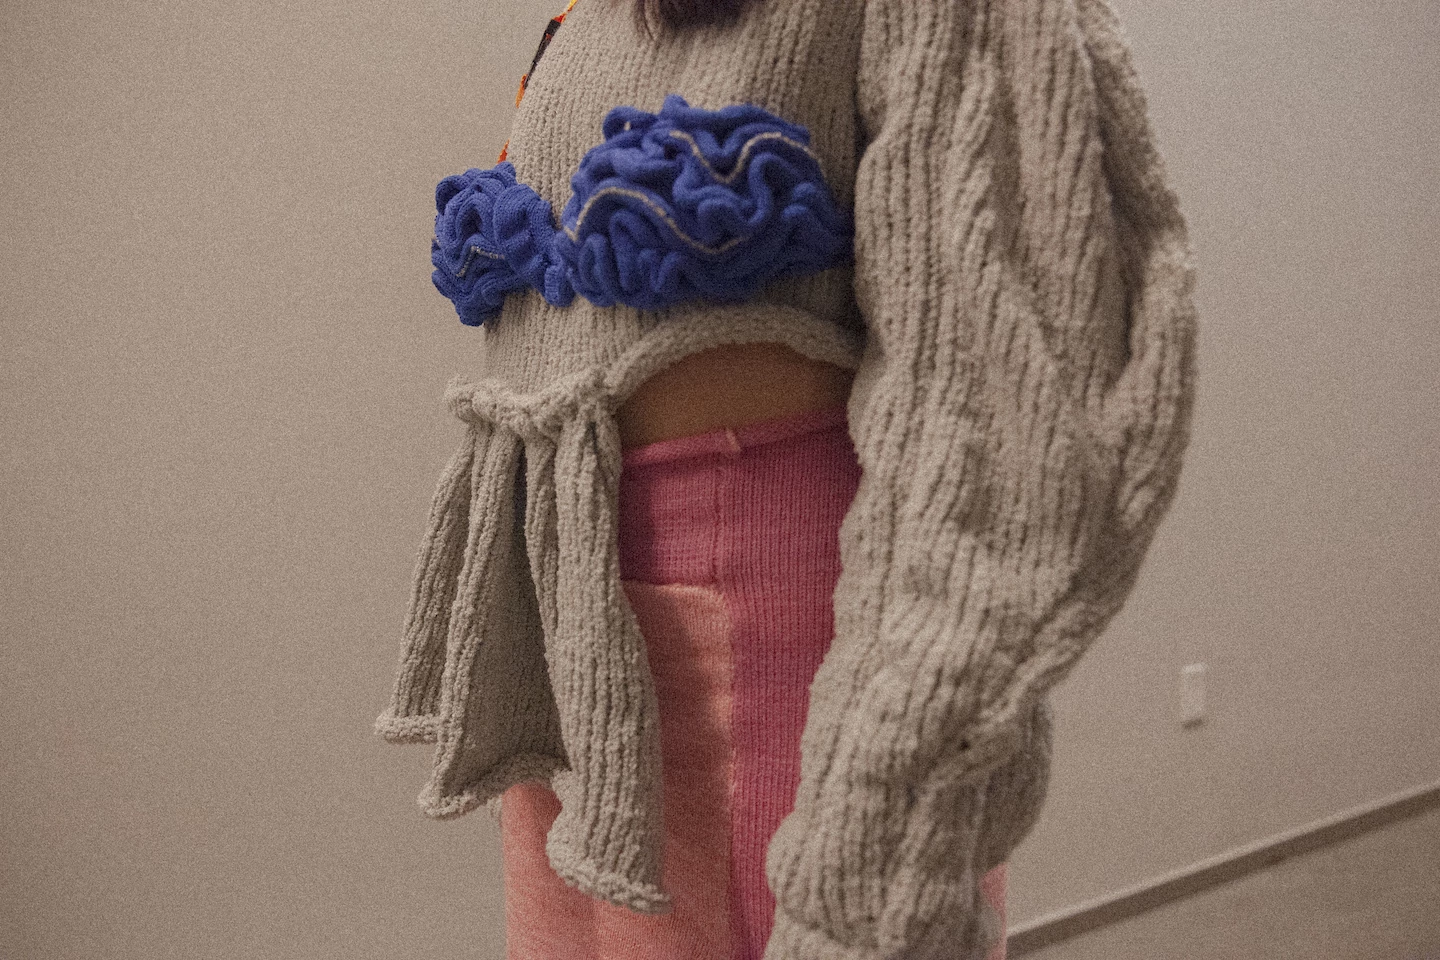
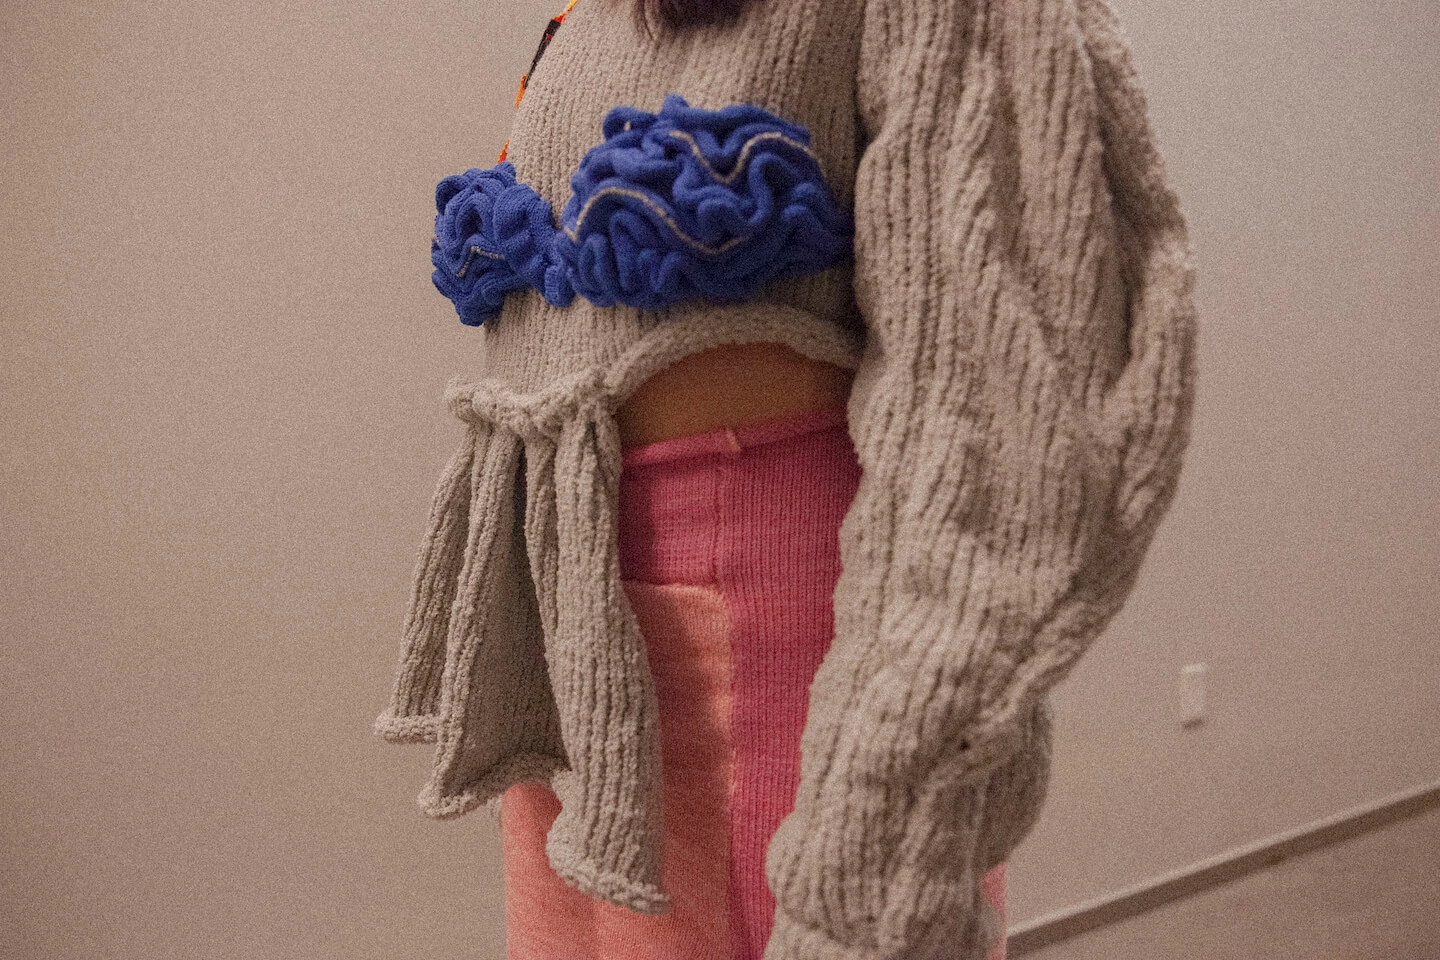
Optimize spaceVegan images

Changed region(s): [[0.4688, 0.5, 0.5625, 0.9375], [0.375, 0.9375, 0.4688, 1.0], [0.3438, 0.8438, 0.375, 0.875]]

diff --git a/src/pages/spaceVegan.js b/src/pages/spaceVegan.js
@@ -19,7 +19,7 @@ const SpaceVeganPage = props => {
             type="image/webp"
           />
           <img
-            src={`../../images/collections/spaceVegan/kbSpaceVegan1.png`}
+            src={`../../images/collections/spaceVegan/kbSpaceVegan1.jpg`}
             alt="Space vegan 1"
             className="one-sv abs w-auto"
           />
@@ -30,7 +30,7 @@ const SpaceVeganPage = props => {
             type="image/webp"
           />
           <img
-            src={`../../images/collections/spaceVegan/kbSpaceVegan2.png`}
+            src={`../../images/collections/spaceVegan/kbSpaceVegan2.jpg`}
             alt="Space vegan 2"
             className="two-sv abs"
           />
@@ -41,7 +41,7 @@ const SpaceVeganPage = props => {
             type="image/webp"
           />
           <img
-            src={`../../images/collections/spaceVegan/kbSpaceVegan3.png`}
+            src={`../../images/collections/spaceVegan/kbSpaceVegan3.jpg`}
             alt="Space vegan 3"
             className="three-sv abs w-auto"
           />
@@ -52,7 +52,7 @@ const SpaceVeganPage = props => {
             type="image/webp"
           />
           <img
-            src={`../../images/collections/spaceVegan/kbSpaceVegan4.png`}
+            src={`../../images/collections/spaceVegan/kbSpaceVegan4.jpg`}
             alt="Space vegan 4"
             className="four-sv abs"
           />
@@ -63,7 +63,7 @@ const SpaceVeganPage = props => {
             type="image/webp"
           />
           <img
-            src={`../../images/collections/spaceVegan/kbSpaceVegan5.png`}
+            src={`../../images/collections/spaceVegan/kbSpaceVegan5.jpg`}
             alt="Space vegan 5"
             className="five-sv abs w-auto"
           />
@@ -74,7 +74,7 @@ const SpaceVeganPage = props => {
             type="image/webp"
           />
           <img
-            src={`../../images/collections/spaceVegan/kbSpaceVegan6.png`}
+            src={`../../images/collections/spaceVegan/kbSpaceVegan6.jpg`}
             alt="Space vegan 6"
             className="six-sv abs w-auto"
           />
@@ -85,7 +85,7 @@ const SpaceVeganPage = props => {
             type="image/webp"
           />
           <img
-            src={`../../images/collections/spaceVegan/kbSpaceVegan7.png`}
+            src={`../../images/collections/spaceVegan/kbSpaceVegan7.jpg`}
             alt="Space vegan 7"
             className="seven-sv abs"
           />
@@ -96,7 +96,7 @@ const SpaceVeganPage = props => {
             type="image/webp"
           />
           <img
-            src={`../../images/collections/spaceVegan/kbSpaceVegan8.png`}
+            src={`../../images/collections/spaceVegan/kbSpaceVegan8.jpg`}
             alt="Space vegan 8"
             className="eight-sv abs"
           />
@@ -107,7 +107,7 @@ const SpaceVeganPage = props => {
             type="image/webp"
           />
           <img
-            src={`../../images/collections/spaceVegan/kbSpaceVegan9.png`}
+            src={`../../images/collections/spaceVegan/kbSpaceVegan9.jpg`}
             alt="Space vegan 9"
             className="nine-sv abs w-auto"
           />
@@ -118,7 +118,7 @@ const SpaceVeganPage = props => {
             type="image/webp"
           />
           <img
-            src={`../../images/collections/spaceVegan/kbSpaceVegan10.png`}
+            src={`../../images/collections/spaceVegan/kbSpaceVegan10.jpg`}
             alt="Space vegan 10"
             className="ten-sv abs"
           />
@@ -129,7 +129,7 @@ const SpaceVeganPage = props => {
             type="image/webp"
           />
           <img
-            src={`../../images/collections/spaceVegan/kbSpaceVegan11.png`}
+            src={`../../images/collections/spaceVegan/kbSpaceVegan11.jpg`}
             alt="Space vegan 11"
             className="eleven-sv abs w-auto"
           />
